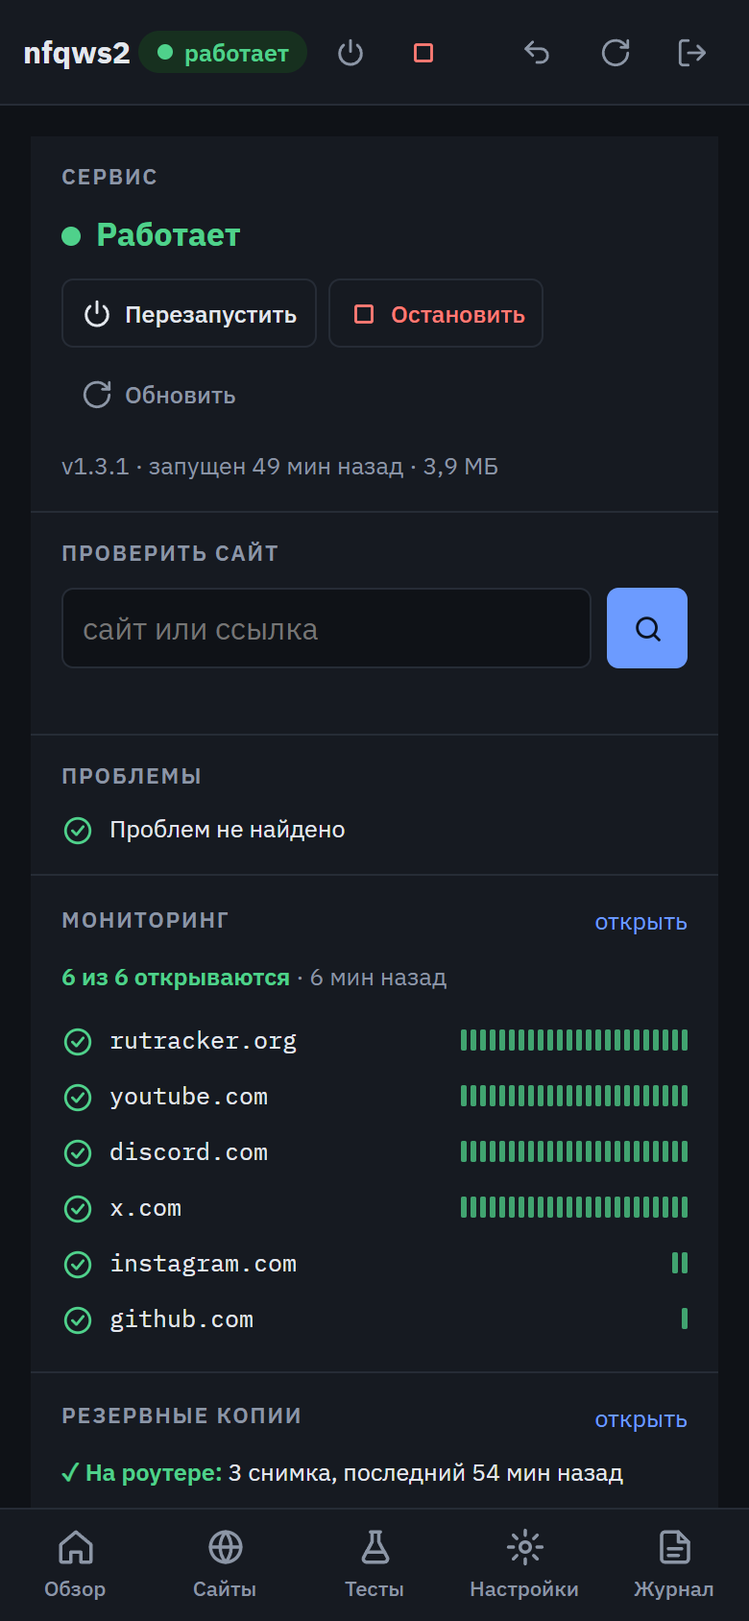
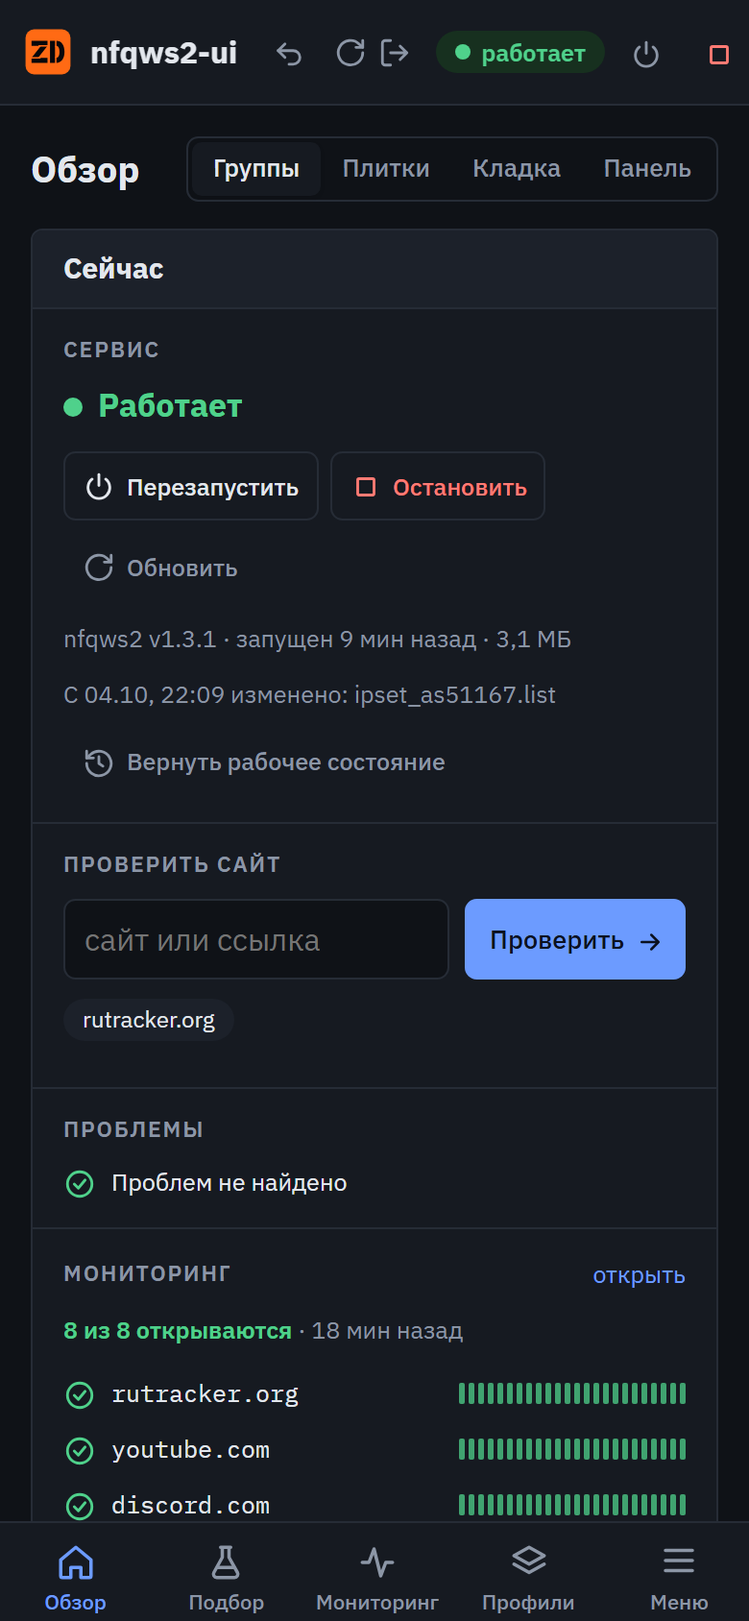
Docs: README and changelog for the new pages, fresh screenshots

diff --git a/README.md b/README.md
@@ -5,17 +5,22 @@
 Интерфейс нужен, чтобы настраивать обход блокировок без SSH и без ручной правки конфига:
 - видно, каким профилем пойдёт конкретный сайт и открывается ли он;
 - ошибки в конфиге подсвечиваются ещё до сохранения;
-- рабочую стратегию можно подобрать тестом;
+- интерфейс по шагам выясняет, чем именно заблокирован сайт;
+- рабочую стратегию можно подобрать тестом — а если сайт из мониторинга сломается, интерфейс подберёт её сам;
 - любое изменение можно откатить.
 
 [![Release](https://img.shields.io/github/v/release/zemidala/nfqws2-ui)](https://github.com/zemidala/nfqws2-ui/releases/latest)
 [![License: MIT](https://img.shields.io/badge/license-MIT-blue.svg)](LICENSE)
 
-![Обзор и списки сайтов](docs/screenshots/overview.png)
+![Обзор](docs/screenshots/overview.png)
 
 <p align="center">
+  <img src="docs/screenshots/diag.png" width="49%" alt="Диагноз блокировки">
+  <img src="docs/screenshots/tests.png" width="49%" alt="Подбор стратегии">
+</p>
+<p align="center">
   <img src="docs/screenshots/settings.png" width="49%" alt="Конструктор профиля">
-  <img src="docs/screenshots/tests.png" width="49%" alt="Тесты стратегий">
+  <img src="docs/screenshots/history.png" width="49%" alt="История подборов">
 </p>
 <p align="center">
   <img src="docs/screenshots/raw.png" width="68%" alt="Редактор конфига">
@@ -26,27 +31,52 @@
 
 ## Что умеет
 
-**Обзор** (на широком экране — колонка слева, видна на всех вкладках)
-- Состояние nfqws2: перезапуск, остановка, версия, память, время работы.
+**Обзор**
+- Состояние nfqws2: перезапуск, остановка, версия, память, время работы. Если сервис не работает — **причина** (nfqws2 не принимает конфиг, выключен автозапуск, остановлен вручную) и последние строки журнала.
 - **Проверка сайта.** Показывает:
   - каким профилем пойдут HTTPS, QUIC и HTTP и почему именно им;
   - открывается ли сайт с роутера;
   - в каких списках он уже есть;
   - не уходит ли он в podkop.
-- Проблемы в конфиге, мониторинг сайтов, резервные копии, счётчики трафика.
+- Проблемы в конфиге, мониторинг сайтов, резервные копии, счётчики трафика, последние подборы и изменения.
+- Предупреждение, если одновременно работает **другой обходчик** (zapret, youtubeUnblock, b4, byedpi): они правят те же пакеты и мешают друг другу.
+- Четыре вида страницы на выбор: группы, плитки, кладка, панель.
 
-**Сайты** — менеджер списков (`/etc/nfqws2/lists`)
+**Проверка сайта**
+- **Диагноз блокировки.** Роутер по шагам выясняет, почему сайт не открывается, и называет причину простыми словами:
+  - имя сайта: ответ DNS роутера сравнивается с защищённым DNS (Яндекс и Google) — видна подмена и заглушка провайдера;
+  - соединение с адресом: блокировка по IP или по порту;
+  - запрос мимо nfqws2 и с чужим именем: блокировка по имени сайта (SNI) или по адресу;
+  - заморозка на объёме (ограничение «16–20 КБ»);
+  - как сайт открывается сейчас и через какой профиль.
+
+  В конце — вывод: поможет ли подбор стратегии, или нужен туннель.
+- **Подбор стратегии.** Стратегии из вашего конфига, стандартный набор и то, что работало раньше, проверяются на выбранном сайте. Для этого запускается отдельный nfqws2 на очереди 301, и в него попадают только проверочные соединения самого роутера. Ваш трафик и основной nfqws2 не затрагиваются. «Применить» объясняет, куда лучше добавить найденную стратегию.
+- **Уточнение.** Если ни одна стратегия не открыла сайт каждый раз, подбор берёт ту, что продвинулась дальше всех, и перебирает у её фейка три вещи по очереди: чем портить, сколько слать (до 20) и какое имя подставлять. На это отведено до 5 минут. Галочка «искать вариант полегче» запускает уточнение и для рабочей стратегии.
+- **История подборов:** что и когда работало для каждого сайта. «Проверить снова» пробует только уже работавшее — это секунды, а не минуты.
+- **Трассировка:** nfqws2 с копией вашего конфига и `--debug` показывает, какой профиль сработал и что сделала стратегия.
+
+**Наблюдение**
+- **Мониторинг:** сайты проверяются раз в N минут.
+- **Автоподбор.** Когда сайт из мониторинга перестаёт открываться (2–4 проверки подряд), роутер сам запускает подбор. Найденное либо предлагается кнопкой «Применить», либо — если включить — применяется само: отдельным профилем только для этого сайта, с проверкой и откатом. По умолчанию автоподбор выключен.
+- **Уведомления** в Telegram: сайт перестал или снова начал открываться, автоподбор что-то нашёл, применил или откатил.
+
+**Списки** — менеджер списков (`/etc/nfqws2/lists`)
 - Создание, импорт из файла, подписка по ссылке с ежедневным обновлением.
 - Переименование: ссылки в конфиге обновляются сами.
 - Копирование, удаление, перенос записей между списками, сортировка перетаскиванием.
 - Проверка записей (`*.домен`, повторы, лишние поддомены) с кнопкой «Исправить».
 - **Дубликаты и конфликты:** одинаковые записи в разных списках, сайт одновременно в обходе и в исключениях.
+- **Список по ASN:** адреса целой сети (хостинга, облака) по номеру её автономной системы или по имени сайта. Данные — RIPEstat, обновление раз в сутки.
 
-**Настройки**
+**Профили**
 - **Профили в порядке проверки.** Для каждого профиля есть:
   - конструктор: «когда срабатывает», «для кого», «что делает»;
   - шаги стратегии с параметрами из документации lua-функций;
   - текстовый вид с подсветкой и подсказками.
+- **Поделиться профилем.** «Для чата» — параметры одной строкой с подписью (версия nfqws2, провайдер, система). «Вставить чужой» — текст из чата разбирается, лишнее отбрасывается, пути к спискам переделываются под роутер; стратегию можно испытать на сайте до добавления.
+
+**Система**
 - **Основное:** интерфейс провайдера определяется автоматически по маршруту по умолчанию или выбирается из интерфейсов роутера, режим работы, порты, IPv6.
 - **Параметры запуска:** lua-скрипты, блобы и общие параметры nfqws2 добавляются из списков того, что есть на роутере.
 - **Конфиг целиком:** большой редактор со структурой, поиском, проверкой на лету и сравнением с сохранённым.
@@ -65,19 +95,15 @@
   - снимки на роутере: перед изменениями и раз в сутки;
   - скачивание архива, восстановление из файла.
 - **История изменений:** версии каждого файла, сравнение, откат. Видны и правки, сделанные мимо интерфейса (по SSH, обновлением пакета).
-- Оформление: три варианта дизайна, светлая и тёмная тема.
-- **Обновления.** Интерфейс сам проверяет новые версии на GitHub: при открытии, если последняя проверка была больше 12 часов назад, и раз в сутки по расписанию. Если вышла новая версия, сверху появится плашка с кнопками «Что нового» и «Обновить». Обновление идёт с живым журналом, после него страница перезагрузится сама. Версия, ссылки и ручная проверка — в «Настройки → О программе». Там же, без выхода в интернет, открываются эта справка и изменения по версиям.
+- **Отчёт для помощи:** текст для вопроса в чате или issue — версии, состояние, профили, названия списков, мониторинг, подборы. Без паролей, токена Telegram, внешнего адреса и содержимого списков; имена сайтов можно скрыть.
+- **Оформление:** три компоновки (боковое меню, вкладки, вокруг сайта), три варианта дизайна, светлая и тёмная тема.
+- **Обновления.** Интерфейс сам проверяет новые версии на GitHub: при открытии, если последняя проверка была больше 12 часов назад, и раз в сутки по расписанию. Если вышла новая версия, сверху появится плашка с кнопками «Что нового» и «Обновить». Обновление идёт с живым журналом, после него страница перезагрузится сама. Версия, ссылки и ручная проверка — в «Система → О программе». Там же, без выхода в интернет, открываются эта справка и изменения по версиям.
 - **Журнал** с подсветкой: время, уровень, процесс, пути и файлы, параметры, адреса. Строки с ошибками и предупреждениями выделены целиком.
 
 **Откат, если что-то перестало работать**
 - «Отменить» в шапке отменяет последнее действие целиком, даже если оно затронуло несколько файлов.
 - **«Перезапустить с проверкой».** После перезапуска интерфейс проверяет сайты из мониторинга. Если за 3 минуты не нажать «Всё работает», файлы и nfqws2 возвращаются к прежнему состоянию. Это сработает, даже если сам интерфейс перестал открываться.
 - «Вернуть рабочее состояние» — к моменту последнего успешного запуска.
-
-**Тесты**
-- **Подбор стратегии.** Стратегии из вашего конфига и стандартный набор проверяются на выбранном сайте. Для этого запускается отдельный nfqws2 на очереди 301, и в него попадают только проверочные соединения самого роутера. Ваш трафик и основной nfqws2 не затрагиваются. «Применить» объясняет, куда лучше добавить найденную стратегию.
-- **Трассировка:** nfqws2 с копией вашего конфига и `--debug` показывает, какой профиль сработал и что сделала стратегия.
-- **Мониторинг:** сайты проверяются раз в N минут, при смене состояния приходят уведомления в Telegram (по желанию).
 
 ## Требования
 
@@ -202,6 +228,7 @@ nfqws-ui-setup remove               убрать конфиг lighttpd и зад
 - **Тесты стратегий проверяют только TCP** (HTTPS и HTTP). QUIC/UDP не тестируется: это видно только в браузере.
 - Тест показывает, открывается ли сайт **с роутера**. На устройствах результат может отличаться: DNS, IPv6, QUIC в браузере.
 - Интерфейс только на русском.
+- **Автоподбор и диагноз видят сайт с роутера**, как и тесты. Автоподбор следит только за сайтами из мониторинга.
 - Шрифты загружаются с Google Fonts. Без доступа к ним используются системные шрифты, всё работает.
 
 ### Предупреждения
@@ -211,6 +238,8 @@ nfqws-ui-setup remove               убрать конфиг lighttpd и зад
 - Защита от перебора пароля: не больше 5 неудачных попыток за 10 минут с одного адреса.
 - **Резервные копии и скачиваемые архивы содержат `/etc/nfqws-ui/settings.json`**, а в нём токен Telegram-бота, если вы включили уведомления. Храните архивы соответственно.
 - **Тесты временно добавляют цепочки iptables** `nfqws_test_post`/`nfqws_test_pre` для исходящих портов 40000–40999 самого роутера и запускают второй nfqws2 на очереди 301. После теста всё снимается. Если тест прервался (например, перезагрузка), цепочки пропадут при перезапуске firewall или nfqws2.
+- **Автоподбор в режиме «применять самому» меняет конфиг и перезапускает nfqws2 без вашего участия.** Он создаёт только отдельный профиль для сломавшегося сайта и возвращает конфиг, если сайт не открылся или перестал открываться другой сайт мониторинга. Режим выключен, пока вы его не включите.
+- **Запросы наружу.** Диагноз спрашивает имя сайта у защищённого DNS Яндекса и Google. «Список по ASN» и «Определить провайдера» обращаются к RIPEstat (stat.ripe.net). Больше интерфейс никуда данные не отправляет; отчёт для помощи никуда не уходит сам.
 - Автоисправления и «Применить» меняют ваш конфиг. Перед каждым изменением делается снимок, откат — в один клик. Но проверяйте, что применяете.
 - Обход блокировок регулируется законами вашей страны. Вы используете nfqws2 и этот интерфейс под свою ответственность.
 - ПО распространяется **«как есть», без каких-либо гарантий** (см. [LICENSE](LICENSE)).
@@ -224,16 +253,16 @@ nfqws-ui-setup remove               убрать конфиг lighttpd и зад
 | Утилита настройки | `/usr/sbin/nfqws-ui-setup` |
 | Конфиг lighttpd | `/etc/lighttpd/conf.d/90-nfqws-ui.conf` (собирается `nfqws-ui-setup`) |
 | Настройки веб-сервера | `/etc/nfqws-ui/web.json` (порты, HTTPS, вход) |
-| Настройки интерфейса | `/etc/nfqws-ui/settings.json` (снимки, мониторинг, подписки, токен Telegram) |
+| Настройки интерфейса | `/etc/nfqws-ui/settings.json` (снимки, мониторинг, автоподбор, подписки, списки по ASN, токен Telegram) |
 | Сертификат HTTPS | `/etc/nfqws-ui/https.crt`, `https.key` |
-| Мониторинг, прошлые тесты | `/etc/nfqws-ui/monitor.json`, `tests.json` |
+| Мониторинг, история подборов, автоподбор | `/etc/nfqws-ui/monitor.json`, `picks.json`, `auto.json` |
 | Снимки | `/etc/nfqws2/.snapshots/` |
 | История изменений | `/etc/nfqws2/.history/` |
 | Временное | `/tmp/nfqws-ui-*` |
 
 Задания cron (`/etc/crontabs/root`):
-- каждые 10 минут — поиск правок вне интерфейса и мониторинг;
-- в 04:05 — ежедневный снимок и обновление подписок.
+- каждые 10 минут — поиск правок вне интерфейса, мониторинг и автоподбор;
+- в 04:05 — ежедневный снимок, обновление подписок и списков по ASN.
 
 ## Как это устроено
 
@@ -262,7 +291,7 @@ nfqws-ui-setup remove               убрать конфиг lighttpd и зад
 
 **«Неверный логин или пароль», хотя пароль верный.** Вход только под `root`. Проверьте, что у root задан пароль: `passwd`.
 
-**Я вставил конфиг с Keenetic, а он не сохраняется.** Откройте «Настройки → Конфиг целиком». Над редактором появится плашка «Похоже, конфиг от Keenetic» со списком правок. Нажмите «Исправить под OpenWrt», проверьте и сохраните.
+**Я вставил конфиг с Keenetic, а он не сохраняется.** Откройте «Система → Конфиг целиком». Над редактором появится плашка «Похоже, конфиг от Keenetic» со списком правок. Нажмите «Исправить под OpenWrt», проверьте и сохраните.
 
 **Проверка пишет «соединение зависает на объёме».** Это ограничение ТСПУ «16-20 КБ»: соединения с зарубежными хостингами (Hetzner, DigitalOcean, OVH, Contabo и др.) зависают после ~16–20 КБ данных. Маленькие страницы открываются, остальное нет. Это не блокировка по SNI, и стратегии nfqws2 её, как правило, не снимают: в наших проверках не помог ни один вариант, а фейки к таким адресам ломали даже TLS. Для таких сайтов нужен VPN или прокси. Проверить своего провайдера можно чекером [dpi-checkers/tcp-16-20](https://hyperion-cs.github.io/dpi-checkers/ru/tcp-16-20/) (с выключенным VPN).
 
@@ -270,7 +299,7 @@ nfqws-ui-setup remove               убрать конфиг lighttpd и зад
 
 **Я правлю конфиг по SSH — интерфейс это увидит?** Да. Изменения попадут в историю не позже чем через 10 минут, и их можно откатить.
 
-**Как вернуть всё как было после неудачного изменения?** Нажмите «Отменить» в шапке или «Вернуть рабочее состояние» в блоке «Сервис». Если не помогло: «Настройки → Резервные копии → Восстановить».
+**Как вернуть всё как было после неудачного изменения?** Нажмите «Отменить» в шапке или «Вернуть рабочее состояние» в блоке «Сервис». Если не помогло: «Система → Резервные копии → Восстановить».
 
 ## Разработка
 

diff --git a/CHANGELOG.md b/CHANGELOG.md
@@ -1,5 +1,24 @@
 # Изменения
 
+## Следующая версия — не выпущена
+
+Интерфейс перестроен, чтобы вместить новые функции: вместо трёх вкладок — страницы в боковом меню. Адреса прежних страниц не изменились.
+
+- **Компоновки.** Три на выбор в «Оформлении»: боковое меню (по умолчанию), вкладки, вокруг сайта. В верхней панели слева — сам интерфейс, справа — nfqws2: версия, состояние, перезапуск и остановка.
+- **Обзор** стал отдельной страницей с четырьмя видами: группы, плитки, кладка, панель.
+- **Диагноз блокировки.** Роутер по шагам выясняет, чем заблокирован сайт: подмена DNS (сравнение с защищённым DNS Яндекса и Google), блокировка по IP, по имени сайта, заморозка «16–20 КБ» — и говорит, поможет ли подбор стратегии.
+- **Уточнение в подборе.** Если ни одна стратегия не открывает сайт каждый раз, подбор сам перебирает у лучшей способ порчи фейка, число фейков (до 20) и подставное имя. Порядок перебора зависит от того, как рвётся соединение без обхода. Подбор не стартует, если имя сайта не находится или адрес не отвечает.
+- **История подборов.** Что и когда работало для каждого сайта; «Проверить снова» — быстрый подбор только по уже работавшему. Работавшие стратегии подбор пробует первыми.
+- **Автоподбор при поломке.** Сайт из мониторинга перестал открываться — роутер сам подбирает стратегию и предлагает её или, если разрешить, применяет отдельным профилем только для этого сайта, с проверкой и откатом. По умолчанию выключен.
+- **Причина, когда nfqws2 не работает:** что именно не так и что с этим сделать.
+- **Предупреждение о других обходчиках**, работающих одновременно.
+- **Обмен профилями:** «Для чата» у профиля и «Вставить чужой» с проверкой и пробным прогоном на сайте.
+- **Отчёт для помощи:** текст без секретов для вопроса в чате или issue.
+- **Список по ASN:** адреса сети хостинга по номеру AS или по имени сайта, с ежедневным обновлением.
+- «Списки» и «Профили» приведены к одному виду; Telegram-уведомления вынесены на отдельную страницу.
+- Интерфейс замечает, что браузер показывает старую версию страницы из кеша, и предлагает перезагрузить. Номер сборки виден в «О программе».
+- Значок приложения — знак ZD.
+
 ## 1.4.0 — 2026-10-04
 
 - Установка на Keenetic с Entware — экспериментально. Команда установки та же, установщик сам определяет систему и ставит отдельный пакет `nfqws2-ui_<версия>-1_all_entware.ipk`: всё лежит под `/opt`, вход — под root из Entware. Обновление кнопкой и из консоли, HTTPS, порт и соседство с nfqws-keenetic-web работают так же, как на OpenWrt. Проверено на стенде с Entware, не на настоящем роутере; отличия и ограничения — в README, раздел «Keenetic (Entware)».
